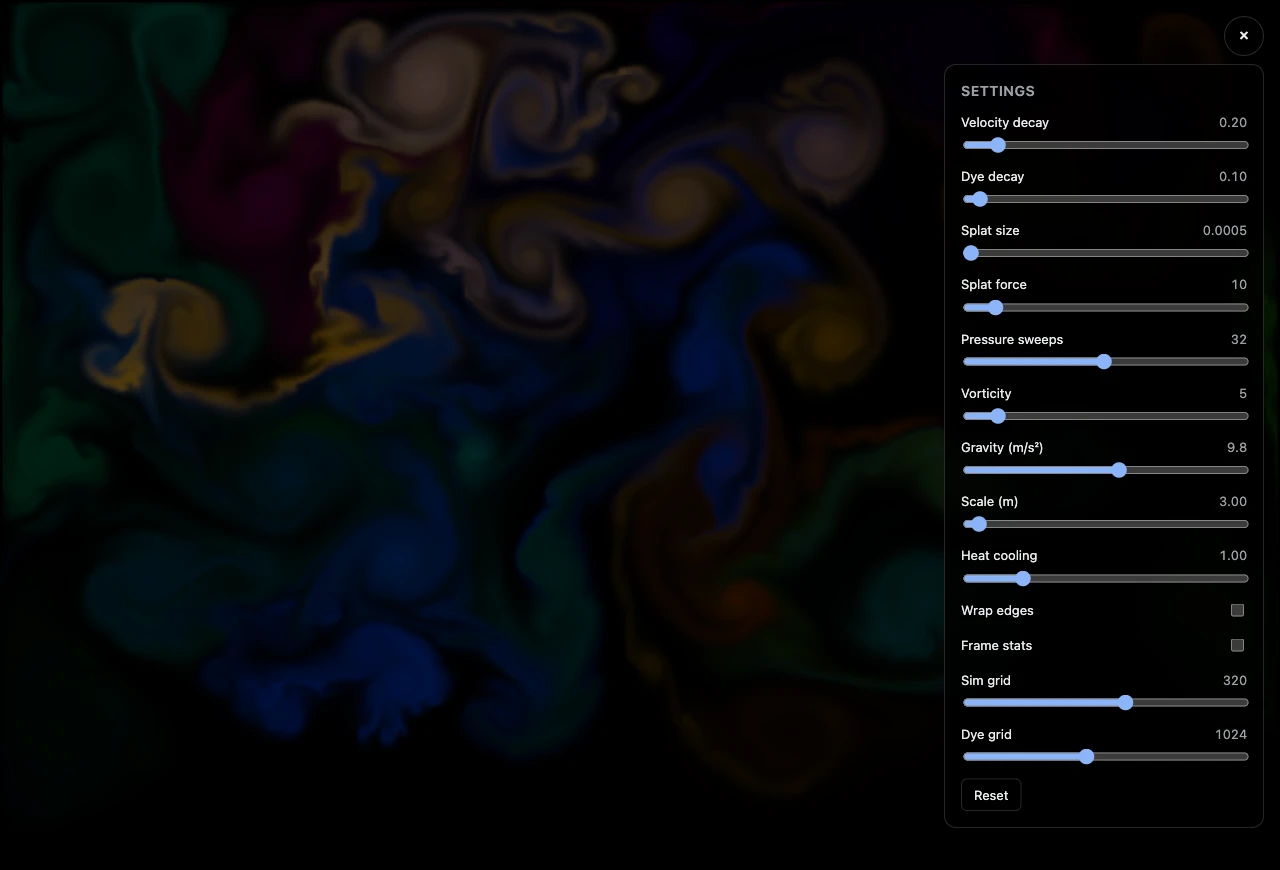
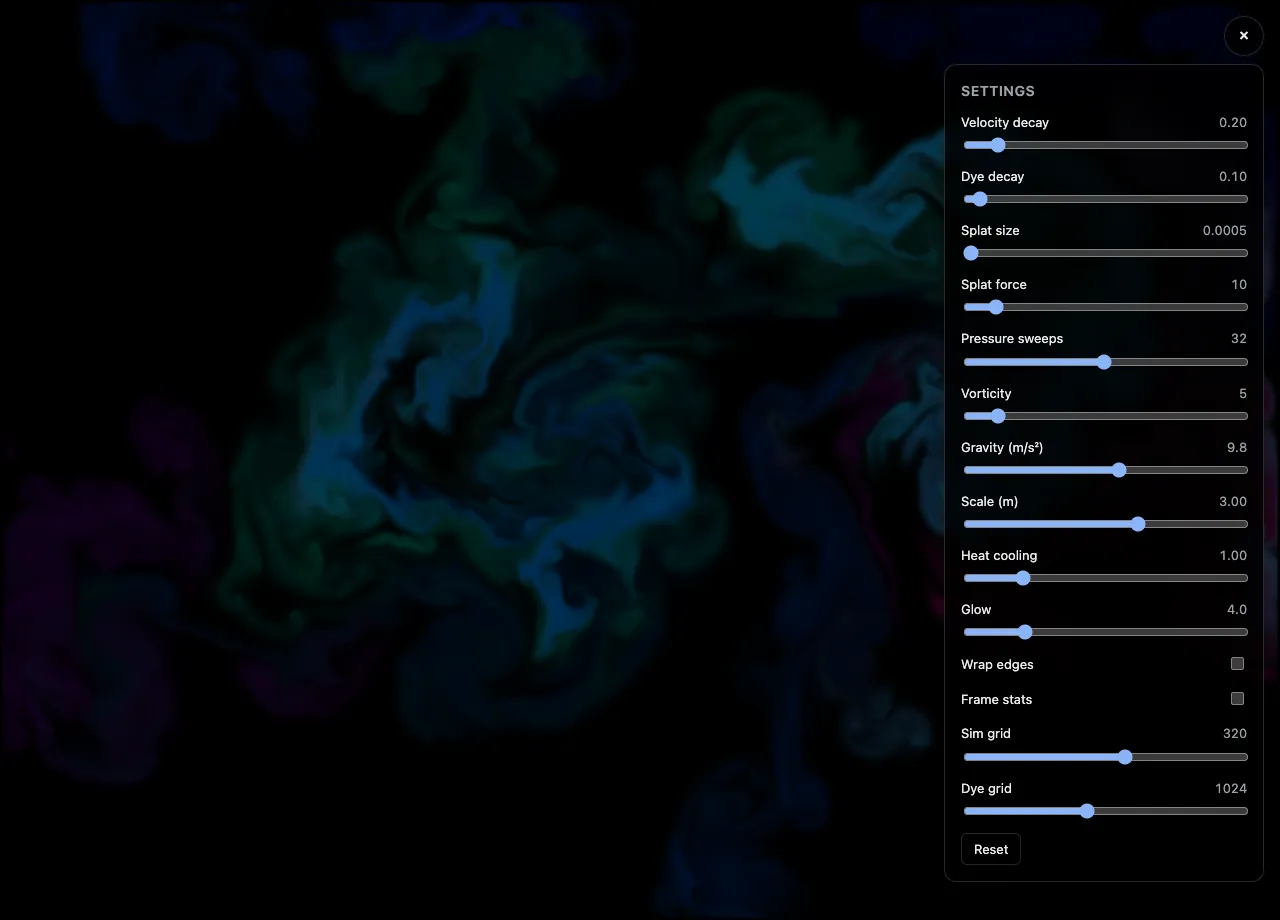
feat: add a Glow slider for how strongly heat brightens the dye
Closes #792

diff --git a/src/fluid/uniforms.test.ts b/src/fluid/uniforms.test.ts
@@ -2,11 +2,14 @@ import { describe, expect, it } from "vitest";
 
 import { HEAT_PER_DYE } from "./config";
 import { projectionScale } from "./projection";
+import renderShaderSource from "./render.wgsl?raw";
 import simulationShaderSource from "./simulation.wgsl?raw";
 import type { Splat } from "./types";
 import {
   ADVECT_PARAM,
+  DISPLAY_PARAM,
   packAdvectParams,
+  packDisplayParams,
   packSplatUniforms,
   packUniforms,
   PARAM_FLOATS,
@@ -36,9 +39,12 @@ const isPadding = (name: string): boolean => name.startsWith("_pad");
 
 /** Fails loudly on an unknown type or a missing struct: silently returning a
  * partial layout would let the assertions below pass while checking less. */
-const wgslStruct = (name: string): Record<string, number> => {
+const wgslStruct = (
+  name: string,
+  source = simulationShaderSource,
+): Record<string, number> => {
   const body = new RegExp(`\\bstruct\\s+${name}\\s*\\{([^}]*)\\}`).exec(
-    simulationShaderSource,
+    source,
   )?.[1];
   if (body === undefined) throw new Error(`no struct ${name} in the shader`);
 
@@ -64,6 +70,7 @@ const wgslStruct = (name: string): Record<string, number> => {
 const UNIFORMS_STRUCT = wgslStruct("Uniforms");
 const SPLAT_UNIFORMS_STRUCT = wgslStruct("SplatUniforms");
 const ADVECT_PARAMS_STRUCT = wgslStruct("AdvectParams");
+const DISPLAY_PARAMS_STRUCT = wgslStruct("DisplayParams", renderShaderSource);
 
 const vec2f = FLOATS["vec2f"] ?? 0;
 const vec4f = FLOATS["vec4f"] ?? 0;
@@ -185,6 +192,18 @@ describe("packUniforms", () => {
     for (const offset of Object.values(UNIFORM)) {
       expect(target[offset]).not.toBeNaN();
     }
+  });
+});
+
+describe("DISPLAY_PARAM", () => {
+  it("places every member where the render shader reads it", () => {
+    expect(DISPLAY_PARAM).toStrictEqual(DISPLAY_PARAMS_STRUCT);
+  });
+
+  it("packs the glow gain into its member of a full parameter block", () => {
+    const packed = packDisplayParams(2.5);
+    expect(packed).toHaveLength(PARAM_FLOATS);
+    expect(packed[DISPLAY_PARAM.glow]).toBe(2.5);
   });
 });
 

diff --git a/e2e-tests/index.spec.ts b/e2e-tests/index.spec.ts
@@ -54,7 +54,7 @@ test.describe("fluid canvas", () => {
     await page.getByRole("button", { name: "Open settings" }).click();
 
     await expect(page.getByRole("heading", { name: "Settings" })).toBeVisible();
-    await expect(page.getByRole("slider")).toHaveCount(11);
+    await expect(page.getByRole("slider")).toHaveCount(12);
   });
 
   test("restores a changed setting after a reload, and drops it on reset", async ({
@@ -152,6 +152,41 @@ test.describe("fluid canvas", () => {
 
     expect(slow).toBeGreaterThan(0.5);
     expect(fast).toBeLessThan(0.2);
+  });
+
+  test("carries the glow slider through to the running frame", async ({
+    page,
+  }) => {
+    test.setTimeout(180_000);
+
+    await freshPage(page, "/?seed=off");
+
+    await page.getByRole("button", { name: "Open settings" }).click();
+    await page.getByRole("slider", { name: "Dye decay" }).fill("0");
+    await page.getByRole("slider", { name: "Heat cooling" }).fill("0.05");
+    await cheapenGrids(page);
+    await pinStrongSplats(page);
+    await settleSlider(page, "Glow", "0");
+
+    const viewport = page.viewportSize() ?? { width: 1280, height: 720 };
+    await stir(page, viewport);
+    await waitFrames(page, 10);
+
+    // Off, on, off again: a read only the glow can raise above both its
+    // neighbours, where a monotone drift (cooling, spreading) never could.
+    const before = await whileHidden(page, () => meanBrightness(page));
+    expect(before).toBeGreaterThan(0);
+
+    await settleSlider(page, "Glow", "20");
+    await waitFrames(page, 2);
+    const lit = await whileHidden(page, () => meanBrightness(page));
+
+    await settleSlider(page, "Glow", "0");
+    await waitFrames(page, 2);
+    const after = await whileHidden(page, () => meanBrightness(page));
+
+    expect(lit).toBeGreaterThan(before * 1.1);
+    expect(lit).toBeGreaterThan(after * 1.1);
   });
 
   test("carries both fields across a resolution change instead of blanking them", async ({

diff --git a/src/fluid/resources.ts b/src/fluid/resources.ts
@@ -5,7 +5,12 @@ import { DYE_FORMAT, PRESSURE_FORMAT, VELOCITY_FORMAT } from "./pipelines";
 import type { ProjectionScale } from "./projection";
 import { projectionScale } from "./projection";
 import type { FluidSettings } from "./settings";
-import { packAdvectParams, PARAM_BYTES, PARAM_FLOATS } from "./uniforms";
+import {
+  packAdvectParams,
+  packDisplayParams,
+  PARAM_BYTES,
+  PARAM_FLOATS,
+} from "./uniforms";
 
 const STORAGE_USAGE =
   GPUTextureUsage.STORAGE_BINDING | GPUTextureUsage.TEXTURE_BINDING;
@@ -31,6 +36,7 @@ export interface Resources {
   ownedParamBuffers: readonly GPUBuffer[];
   advectVelocityParams: GPUBuffer;
   advectDyeParams: GPUBuffer;
+  displayParams: GPUBuffer;
   advectVelocity: FacePair;
   advectDye: ByVelocityThenDyeFace;
   splatVelocity: FacePair;
@@ -91,6 +97,7 @@ export const buildResources = (
   const advectDyeParams = makeParamBuffer(
     packAdvectParams(dyeGrid, settings.dyeDissipation, settings.heatCooling),
   );
+  const displayParams = makeParamBuffer(packDisplayParams(settings.glow));
   const splatVelocityParams = makeSplatParams(simGrid, 1);
   const splatDyeParams = makeSplatParams(dyeGrid, 0);
 
@@ -216,7 +223,10 @@ export const buildResources = (
   ];
 
   const display = perFace(dye, (read) =>
-    bindGroup(pipelines.renderLayout, [{ binding: 0, resource: read }]),
+    bindGroup(pipelines.renderLayout, [
+      { binding: 0, resource: read },
+      { binding: 1, resource: { buffer: displayParams } },
+    ]),
   );
 
   return {
@@ -231,11 +241,13 @@ export const buildResources = (
     ownedParamBuffers: [
       advectVelocityParams,
       advectDyeParams,
+      displayParams,
       splatVelocityParams,
       splatDyeParams,
     ],
     advectVelocityParams,
     advectDyeParams,
+    displayParams,
     advectVelocity,
     advectDye,
     splatVelocity,

diff --git a/src/fluid/render.test.ts b/src/fluid/render.test.ts
@@ -5,7 +5,7 @@ import renderShaderSource from "./render.wgsl?raw";
 describe("the display shader", () => {
   it("brightens the colour by the heat in the dye's alpha channel", () => {
     expect(renderShaderSource).toMatch(
-      /let colour = sampled\.rgb \* \(1\.0 \+ HEAT_GLOW \* sampled\.a\);/,
+      /let colour = sampled\.rgb \* \(1\.0 \+ displayParams\.glow \* sampled\.a\);/,
     );
   });
 
@@ -16,10 +16,10 @@ describe("the display shader", () => {
     );
   });
 
-  it("gives the glow a positive gain", () => {
-    const gain = /const HEAT_GLOW: f32 = ([\d.]+);/.exec(
-      renderShaderSource,
-    )?.[1];
-    expect(Number(gain)).toBeGreaterThan(0);
+  it("reads the glow gain from the display uniform, not a shader constant", () => {
+    expect(renderShaderSource).not.toMatch(/const HEAT_GLOW/);
+    expect(renderShaderSource).toMatch(
+      /@group\(0\) @binding\(1\) var<uniform> displayParams: DisplayParams;/,
+    );
   });
 });

diff --git a/src/fluid/settings.ts b/src/fluid/settings.ts
@@ -2,6 +2,7 @@ import {
   DYE_DISSIPATION,
   EARTH_GRAVITY,
   HEAT_COOLING,
+  HEAT_GLOW,
   PRESSURE_ITERATIONS,
   SCENE_WIDTH_METRES,
   SPLAT_FORCE,
@@ -24,6 +25,7 @@ export interface NumericSettings {
   gravity: number;
   sceneWidth: number;
   heatCooling: number;
+  glow: number;
 }
 
 export interface FluidSettings extends NumericSettings {
@@ -41,6 +43,7 @@ const NUMERIC_DEFAULTS: NumericSettings = {
   gravity: EARTH_GRAVITY,
   sceneWidth: SCENE_WIDTH_METRES,
   heatCooling: HEAT_COOLING,
+  glow: HEAT_GLOW,
 };
 
 export const DEFAULT_SETTINGS: FluidSettings = {
@@ -125,6 +128,14 @@ export const SETTING_DESCRIPTORS: readonly SettingDescriptor<
     max: 5,
     step: 0.05,
     precision: 2,
+  },
+  {
+    key: "glow",
+    label: "Glow",
+    min: 0,
+    max: 20,
+    step: 0.1,
+    precision: 1,
   },
 ];
 

diff --git a/src/fluid/uniforms.ts b/src/fluid/uniforms.ts
@@ -42,6 +42,10 @@ export const ADVECT_PARAM = {
   heatDissipation: 3,
 } as const;
 
+export const DISPLAY_PARAM = {
+  glow: 0,
+} as const;
+
 /** One `vec4f` — the size every pass-parameter buffer is allocated at. */
 export const PARAM_FLOATS = 4;
 export const PARAM_BYTES = PARAM_FLOATS * 4;
@@ -86,6 +90,12 @@ export const packSplatUniforms = (
   target.set(splat.color, SPLAT_UNIFORM.color);
   target[SPLAT_UNIFORM.radius] = radius;
   target[SPLAT_UNIFORM.heat] = HEAT_PER_DYE * Math.max(...splat.color);
+};
+
+export const packDisplayParams = (glow: number): Float32Array => {
+  const values = new Float32Array(PARAM_FLOATS);
+  values[DISPLAY_PARAM.glow] = glow;
+  return values;
 };
 
 export const packAdvectParams = (

diff --git a/src/fluid/settings.test.ts b/src/fluid/settings.test.ts
@@ -169,3 +169,18 @@ describe("showStats", () => {
     expect(normaliseSettings({ showStats: 1 }).showStats).toBe(false);
   });
 });
+
+describe("glow", () => {
+  it("defaults the heat glow to 4, also for a blob that predates it", () => {
+    expect(DEFAULT_SETTINGS.glow).toBe(4);
+    expect(normaliseSettings({}).glow).toBe(4);
+    expect(normaliseSettings({ glow: "x" }).glow).toBe(4);
+    expect(normaliseSettings({ glow: 2 }).glow).toBe(2);
+  });
+
+  it("clamps the heat glow into the slider's range, down to no glow at all", () => {
+    expect(clampSetting("glow", -1)).toBe(0);
+    expect(clampSetting("glow", 0)).toBe(0);
+    expect(clampSetting("glow", 1e6)).toBe(20);
+  });
+});

diff --git a/src/fluid/renderer.ts b/src/fluid/renderer.ts
@@ -17,6 +17,7 @@ import { DEFAULT_SETTINGS } from "./settings";
 import type { FluidRenderer, Splat } from "./types";
 import {
   ADVECT_PARAM,
+  packDisplayParams,
   packSplatUniforms,
   packUniforms,
   SPLAT_UNIFORM_BYTES,
@@ -162,6 +163,11 @@ export const createFluidRenderer = (
       resources.advectDyeParams,
       next.dyeDissipation,
       next.heatCooling,
+    );
+    device.queue.writeBuffer(
+      resources.displayParams,
+      0,
+      packDisplayParams(next.glow),
     );
   };
 

diff --git a/src/fluid/settingsStorage.test.ts b/src/fluid/settingsStorage.test.ts
@@ -57,6 +57,11 @@ describe("loadSettings", () => {
     });
   });
 
+  it("persists the glow", () => {
+    saveSettings({ ...DEFAULT_SETTINGS, glow: 7.5 });
+    expect(loadSettings()).toMatchObject({ glow: 7.5 });
+  });
+
   it("persists the frame-stats toggle", () => {
     saveSettings({ ...DEFAULT_SETTINGS, showStats: true });
     expect(loadSettings().showStats).toBe(true);

diff --git a/src/fluid/config.ts b/src/fluid/config.ts
@@ -31,6 +31,9 @@ export const SCENE_WIDTH_METRES = 3;
 
 export const HEAT_COOLING = 1;
 
+/** Brightness gained per unit of heat. Chosen empirically, no fixed source. */
+export const HEAT_GLOW = 4;
+
 export const HEAT_PER_DYE = 0.2;
 
 /** Screen-plane magnitude in m/s² below which a reading has no usable direction. Chosen empirically. */

diff --git a/src/fluid/pipelines.ts b/src/fluid/pipelines.ts
@@ -144,6 +144,11 @@ export const createPipelines = (
         visibility: GPUShaderStage.FRAGMENT,
         texture: { sampleType: "unfilterable-float" },
       },
+      {
+        binding: 1,
+        visibility: GPUShaderStage.FRAGMENT,
+        buffer: { type: "uniform" },
+      },
     ],
   });
 

diff --git a/src/SettingsPanel.test.tsx b/src/SettingsPanel.test.tsx
@@ -50,7 +50,7 @@ describe("SettingsPanel", () => {
 
     await open();
 
-    expect(screen.getAllByRole("slider")).toHaveLength(11);
+    expect(screen.getAllByRole("slider")).toHaveLength(12);
     expect(screen.getByRole("heading", { name: "Settings" })).toBeTruthy();
   });
 
